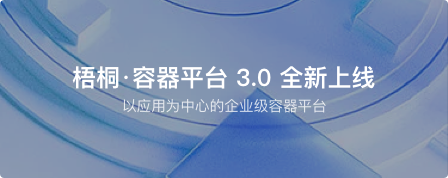
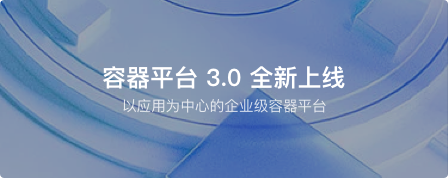
fix: remove wutong text

Changed region(s): [[0.1562, 0.3652, 0.8438, 0.5056]]

diff --git a/src/contanst/index.js b/src/contanst/index.js
@@ -1,8 +1,8 @@
 export const Text = {
          enterprise: {
-           HOME_HEAD_TITLE: 'Hi, 欢迎使用 梧桐·容器平台',
+           HOME_HEAD_TITLE: 'Hi, 欢迎使用 容器平台',
            HOME_HEAD_INTRODUCE:
-             '梧桐·容器平台介于IaaS层与SaaS层之间，南向对接IaaS资源，北向对接应用系统。平台遵循以应用为中心的设计理念，统一封装容器、K8s等底层技术。同时，深度整合应用开发、交付、运维，微服务治理、资源管理等功能，实现了对所有应用、基础设施的统一管理，及应用全生命周期管理过程的自动化。',
+             '容器平台介于IaaS层与SaaS层之间，南向对接IaaS资源，北向对接应用系统。平台遵循以应用为中心的设计理念，统一封装容器、K8s等底层技术。同时，深度整合应用开发、交付、运维，微服务治理、资源管理等功能，实现了对所有应用、基础设施的统一管理，及应用全生命周期管理过程的自动化。',
            HOME_CONTENT_USEINFO_TITLE: '集群资源使用情况',
            HOME_CONTENT_USEINFO_USED: '已使用',
            HOME_CONTENT_USEINFO_TOTAL: '总共',

diff --git a/src/components/GlobalRouter/index.js b/src/components/GlobalRouter/index.js
@@ -7,8 +7,8 @@ import globalUtil from '../../utils/global';
 import userUtil from '../../utils/user';
 import CollectionView from '../SiderMenu/CollectionView';
 import styles from './index.less';
-import logoSmall from '../../../public/images/logo/logo_small.png';
-import logoNormal from '../../../public/images/logo/logo_normal.png';
+import logoSmall from '../../../public/images/logo/logo_small_hngs.png';
+import logoNormal from '../../../public/images/logo/logo_normal_hngs.png';
 
 const { SubMenu } = Menu;
 
@@ -340,7 +340,7 @@ export default class GlobalRouter extends PureComponent {
         >
           {!collapsed && (
             <div>
-              <div className={styles.title}>梧桐·容器平台</div>
+              <div className={styles.title}>容器平台</div>
             </div>
           )}
           {collectionVisible && (

diff --git a/src/layouts/CustomFooter.js b/src/layouts/CustomFooter.js
@@ -6,14 +6,14 @@ import styles from './PageHeaderLayout.less';
 export default () => (
   <DefaultFooter
     className={styles.customFooter}
-    copyright="2022 拓维信息系统股份有限公司出品"
+    copyright="2022 湖南高速信息科技有限公司出品"
     links={[
       {
         key: 'PaaS',
         title: '官网',
-        href: 'https://www.talkweb.com.cn',
+        href: 'http://www.hngs.net/',
         blankTarget: true
-      },
+      }
       // {
       //   key: 'poc',
       //   title: '联系我们',

diff --git a/src/components/WelcomeAndCreateTeam/index.js b/src/components/WelcomeAndCreateTeam/index.js
@@ -91,7 +91,7 @@ export default class Index extends PureComponent {
                   marginBottom: 0
                 }}
               >
-                {is_public ? '欢迎使用梧桐云' : '欢迎使用平台'}
+                {is_public ? '欢迎使用容器平台' : '欢迎使用容器平台'}
               </h1>
               <div className={userStyles.desc}>简单2步, 开启云端之旅</div>
             </div>

diff --git a/src/components/AuthCompany/index.js b/src/components/AuthCompany/index.js
@@ -368,7 +368,7 @@ export default class Index extends PureComponent {
                 tab={
                   <span className={PluginStyles.verticalCen}>
                     {globalUtil.fetchSvg('cloudMarket')}
-                    梧桐商店
+                    应用商店
                   </span>
                 }
                 key="wutongStore"

diff --git a/src/pages/EnterpriseShared/index.js b/src/pages/EnterpriseShared/index.js
@@ -1721,7 +1721,7 @@ export default class EnterpriseShared extends PureComponent {
             <AuthCompany
               isHelm
               eid={eid}
-              title="添加应用商店"
+              title="添加商店"
               onOk={this.getHelmMarketsTab}
               onCancel={this.handleCancelAppMarket}
               currStep={1}
